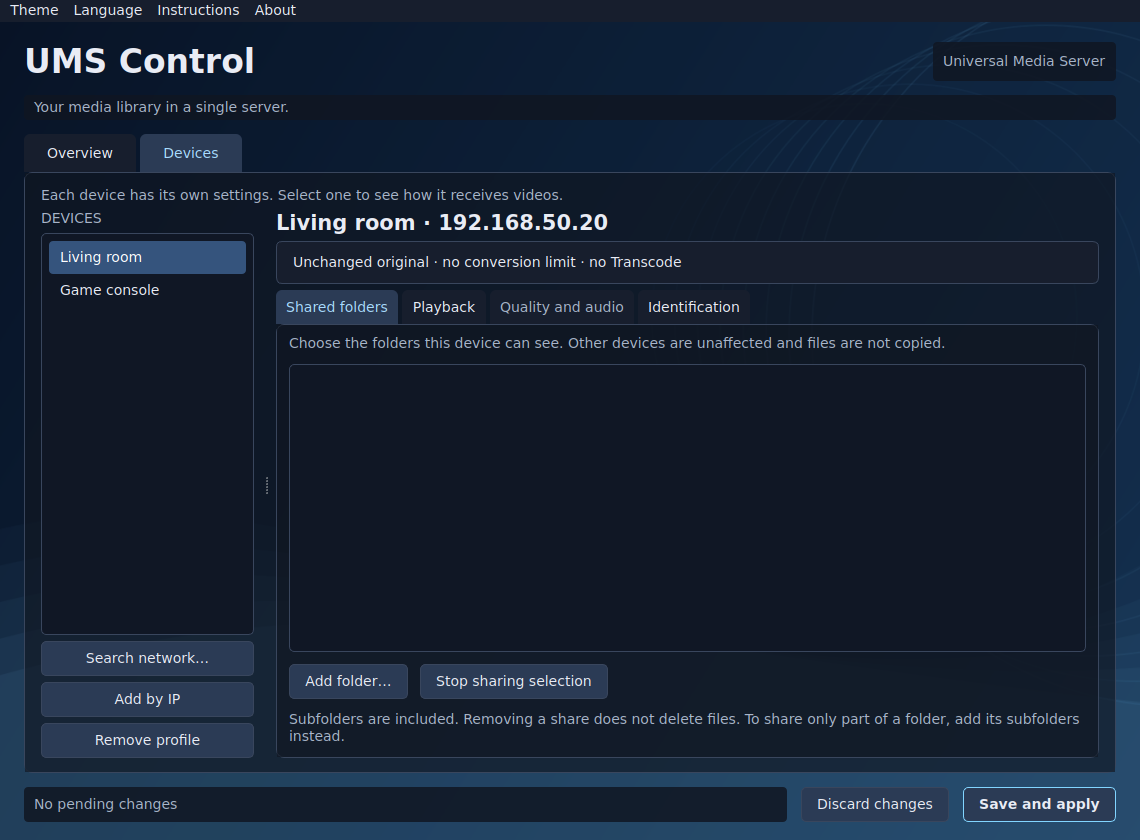
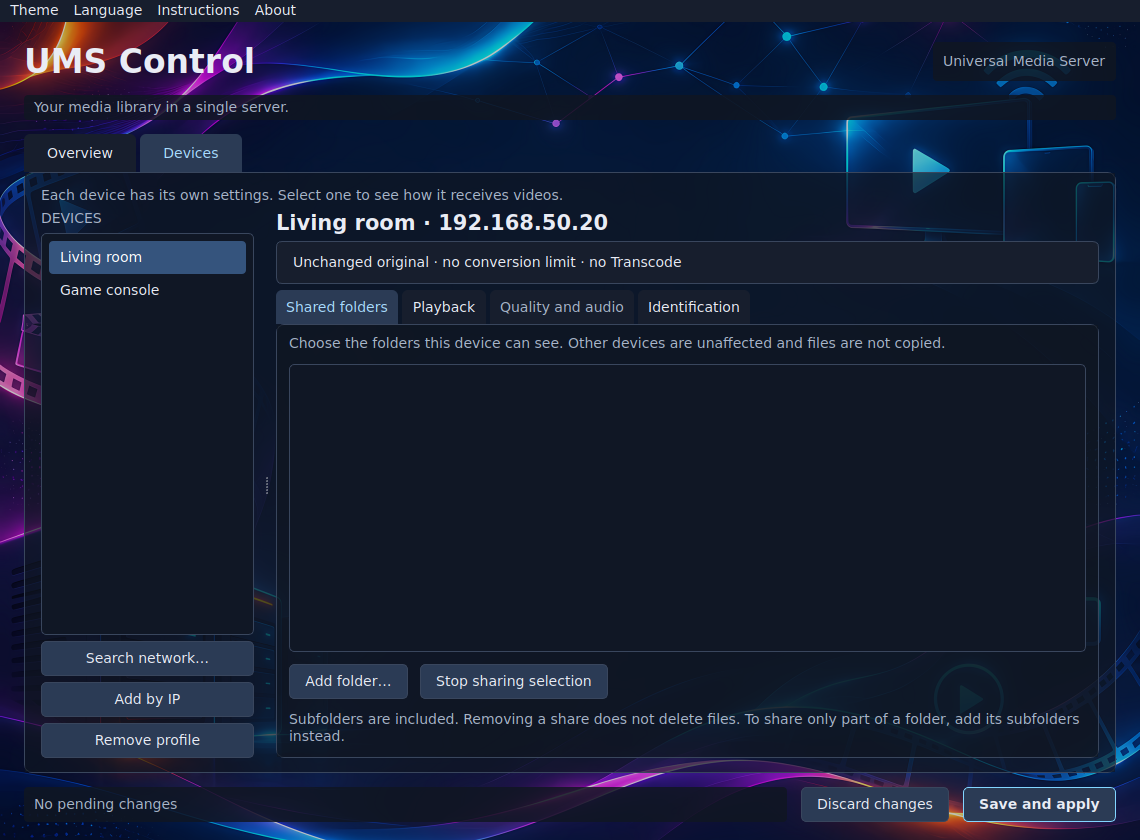
Package Linux artwork and theme gallery with separate Windows assets

diff --git a/distribution.py b/distribution.py
@@ -52,11 +52,15 @@ def screenshots(output):
     with ExitStack() as stack:
         for item in [patch.object(c,'network_interfaces',return_value=[dict(name='demo-interface',kind='ethernet',number=1,up=True)]),patch.object(g.Window,'refresh'),patch.object(g.Window,'check_updates'),patch.object(c,'load_state',side_effect=lambda:copy.deepcopy(state)),patch.object(g.appearance,'load',return_value=dict(theme='current',language='en')),patch.object(g.appearance,'save')]:stack.enter_context(item)
         w=g.Window(preferences=dict(theme='current',language='en'));w.timer.stop();w.resize(1140,840);w.update_server_buttons(dict(present=False,kind='absent',repairable=True,status='inactive'));w.status.setText(g.tr('Servidor no instalado'));w.render_activity(dict(devices=[],activity=[],status='inactive'));w.dirty=False;w.message.setText(g.tr('Sin cambios pendientes'));w.show();app.processEvents()
-        for tab,name in [(0,'summary'),(1,'devices')]:
-            w.tabs.setCurrentIndex(tab);app.processEvents()
-            if not w.grab().save(str(output/(name+'.png'))):raise RuntimeError('Screenshot failed')
+        for theme in g.appearance.THEMES:
+            w.set_theme(theme);app.processEvents()
+            for tab,name in [(0,'summary'),(1,'devices')]:
+                w.tabs.setCurrentIndex(tab);app.processEvents()
+                image=w.grab()
+                if not image.save(str(output/(theme+'-'+name+'.png'))):raise RuntimeError('Screenshot failed')
+                if theme=='current' and not image.save(str(output/(name+'.png'))):raise RuntimeError('Screenshot failed')
         w.dirty=False;w.close()
-    (output/'capture.json').write_text(json.dumps(dict(platform=sys.platform,language='en',synthetic_data=True,version='1.0.0'),indent=2), encoding='utf-8')
+    (output/'capture.json').write_text(json.dumps(dict(platform=sys.platform,language='en',synthetic_data=True,version='1.0.0',themes=list(g.appearance.THEMES)),indent=2), encoding='utf-8')
     return 0
 
 def main():

diff --git a/tools/export_public.py b/tools/export_public.py
@@ -35,11 +35,9 @@ def main():
   target.mkdir(parents=True,exist_ok=True)
   for name in spec['files']:
    destination=target/name;destination.parent.mkdir(parents=True,exist_ok=True);shutil.copy2(ROOT/name,destination)
-  from tools.render_assets import render
-  render(target/'assets')
   paths=spec['files']+['assets/'+name for name in spec['generated_assets']]
   hashes={name:hashlib.sha256((target/name).read_bytes()).hexdigest() for name in sorted(paths)}
   (target/'PUBLIC-MANIFEST.json').write_text(json.dumps(hashes,indent=2)+'\n', encoding='utf-8')
   print('Public source directory ready:',target,'files:',len(hashes))
- else:print('Public source allowlist validated:',len(spec['files']),'files; private artwork excluded')
+ else:print('Public source allowlist validated:',len(spec['files']),'files; platform artwork preserved')
 if __name__=='__main__':main()

diff --git a/packaging/build_windows.py b/packaging/build_windows.py
@@ -11,6 +11,8 @@ def assemble(payload):
         shutil.copy2(ROOT/name,internal/name)
     for name in ['assets','docs/public','server-support','patches']:
         shutil.copytree(ROOT/name,internal/name,dirs_exist_ok=True,ignore=shutil.ignore_patterns('__pycache__'))
+    # Windows retains its independent geometric icon and wallpaper set.
+    shutil.copytree(ROOT/'assets/windows',internal/'assets',dirs_exist_ok=True)
     vendor=internal/'vendor/7zip';vendor.mkdir(parents=True,exist_ok=True)
     for name in ['7z.exe','7z.dll','License.txt']:
         shutil.copy2(CACHE/'7zip-full'/name,vendor/name)

diff --git a/packaging/build_linux.py b/packaging/build_linux.py
@@ -14,6 +14,7 @@ def copy_source(target):
         f=ROOT/name
         if f.is_file():
             out=target/name;out.parent.mkdir(parents=True,exist_ok=True);shutil.copy2(f,out)
+    shutil.copy2(ROOT/'PUBLIC-MANIFEST.json',target/'PUBLIC-MANIFEST.json')
     (target/'distribution-marker.json').write_text(json.dumps(dict(version='1.0.0',format='linux',native_baseline='jammy')), encoding='utf-8')
 
 def build(args):

diff --git a/README_ES.md b/README_ES.md
@@ -26,13 +26,27 @@ Windows utiliza la misma interfaz Qt, reglas por dispositivo e integración Java
 
 ## Capturas
 
-Interfaz inglesa y dispositivos de demostración, sin datos de bibliotecas privadas. Las imágenes Linux proceden de la aplicación instalada mediante DEB en un escritorio aislado. Las imágenes Windows muestran el ejecutable empaquetado bajo Wine; no representan una certificación de escritorio Windows nativo.
+Interfaz inglesa y dispositivos de demostración, sin datos de bibliotecas privadas. Las imágenes Linux son renderizados Qt reales del contenido del DEB en un entorno Linux aislado. Las imágenes Windows muestran el ejecutable empaquetado bajo Wine; no representan una certificación de escritorio Windows nativo.
 
 ### Linux · DEB
 
 ![Linux DEB — Resumen](docs/screenshots/linux-deb-summary.png)
 
 ![Linux DEB — Dispositivos](docs/screenshots/linux-deb-devices.png)
+
+#### Temas Linux
+
+![Linux — Azul](docs/screenshots/linux-current-summary.png)
+
+![Linux — UGM](docs/screenshots/linux-ugm-summary.png)
+
+![Linux — Windows clásico](docs/screenshots/linux-classic-summary.png)
+
+![Linux — Alto contraste](docs/screenshots/linux-contrast-summary.png)
+
+![Linux — Verde/amarillo](docs/screenshots/linux-green-summary.png)
+
+![Linux — Anime](docs/screenshots/linux-anime-summary.png)
 
 ### Windows · EXE
 
@@ -46,7 +60,7 @@ Interfaz inglesa y dispositivos de demostración, sin datos de bibliotecas priva
 - Entrega Original, conversión manual y automática. Mismos controles de contenedor, audio/subtítulos, codificador, resolución y bitrate en ambas plataformas.
 - Bitrate recomendado editable al cambiar resolución: 480p 5, 720p 10, 1080p 25, 1440p 40 y 2160p 60 Mbps. Abrir o cambiar de perfil conserva los valores manuales guardados.
 - Resumen: inicio/parada/reinicio, salud/registro, instalación/reparación/actualización/retirada del servidor, autoinicio de sesión y actualización del catálogo. Actualizaciones siempre explícitas.
-- Siete idiomas, seis temas y guía de Instrucciones. Arte público original; fondos personales y diagnósticos privados excluidos.
+- Siete idiomas y seis temas: Azul, UGM, Windows clásico, Alto contraste, Verde/amarillo y Anime. Linux incluye el icono y los fondos proporcionados; Windows utiliza su propio arte geométrico. Guía de Instrucciones incluida; ajustes y diagnósticos privados excluidos.
 - Guardar y aplicar reinicia un servidor activo e interrumpe la reproducción. Un servidor detenido permanece detenido. Las preferencias visuales no aplican ajustes del servidor.
 
 Algunos dispositivos pueden no ser **compatibles al 100 %**. La compatibilidad depende del dispositivo, su firmware y los formatos multimedia, no simplemente del fabricante. No se garantiza la reproducción universal.

diff --git a/README.md b/README.md
@@ -26,13 +26,27 @@ Windows uses the same Qt interface, profile rules and Java integration as Linux.
 
 ## Screenshots
 
-English interface with demonstration devices and no private library data. Linux images are captured from the DEB-installed application in an isolated desktop. Windows images show the packaged Windows executable running under Wine, not a native Windows desktop certification.
+English interface with demonstration devices and no private library data. Linux images are real Qt renders of all six themes from the DEB payload in an isolated Linux userspace. Windows images show the packaged Windows executable running under Wine, not a native Windows desktop certification.
 
 ### Linux · DEB
 
 ![Linux DEB — Overview](docs/screenshots/linux-deb-summary.png)
 
 ![Linux DEB — Devices](docs/screenshots/linux-deb-devices.png)
+
+#### Linux themes
+
+![Linux — Blue](docs/screenshots/linux-current-summary.png)
+
+![Linux — UGM](docs/screenshots/linux-ugm-summary.png)
+
+![Linux — Classic Windows](docs/screenshots/linux-classic-summary.png)
+
+![Linux — High contrast](docs/screenshots/linux-contrast-summary.png)
+
+![Linux — Green/yellow](docs/screenshots/linux-green-summary.png)
+
+![Linux — Anime](docs/screenshots/linux-anime-summary.png)
 
 ### Windows · EXE
 
@@ -46,7 +60,7 @@ English interface with demonstration devices and no private library data. Linux 
 - Original delivery, manual conversion and automatic delivery. Container, audio/subtitles, encoder, resolution and bitrate controls are shared across platforms.
 - Resolution changes suggest an editable bitrate: 480p 5, 720p 10, 1080p 25, 1440p 40 and 2160p 60 Mbps. Saved manual values are preserved when opening/switching profiles.
 - Overview: start/stop/restart, health/logs, install/repair/update/remove server, session autostart and catalogue refresh. Updates are explicit.
-- Seven languages, six themes and a built-in Instructions guide. Public artwork is original; private development wallpapers and logs are excluded.
+- Seven languages and six themes: Blue, UGM, Classic Windows, High contrast, Green/yellow and Anime. Linux includes the supplied icon and wallpapers; Windows uses its own geometric artwork. A built-in Instructions guide is included; private logs and settings are excluded.
 - Saving and applying playback settings restarts an active server and interrupts playback. A stopped server stays stopped. Appearance preferences never apply server settings.
 
 Some devices may not be **100% compatible**. Compatibility depends on the device, firmware and media formats, not simply on its manufacturer. No universal playback guarantee is made.

diff --git a/assets/ORIGIN.md b/assets/ORIGIN.md
@@ -1,11 +1,11 @@
-# Public artwork
+# Platform artwork
 
-Copyright (C) 2026 N3ruk. GPL-3.0-or-later.
+Linux DEB and ZIP use the icon and wallpapers supplied and selected by N3ruk. The PNGs are preserved byte-for-byte from the supplied artwork. This inventory records provenance, not a claim that third-party imagery was created by the frontend author or is relicensed by the frontend GPL.
 
-All five PNG files are original geometric renders from `tools/render_assets.py`. No third-party artwork, characters, logos, photos, fonts or private wallpapers are incorporated. The script is the preferred editable source. Theme identifiers are compatibility identifiers, not third-party endorsements.
+Windows uses the original geometric artwork in `assets/windows/`, generated by `tools/render_assets.py`; its provenance and hashes are recorded there. Classic Windows and High contrast are palette-only themes on both platforms.
 
[10 lines of base64/hex data omitted]

diff --git a/THIRD_PARTY_NOTICES.md b/THIRD_PARTY_NOTICES.md
@@ -4,7 +4,7 @@ UMS Control 1.0.0 candidate — Copyright (C) 2026 N3ruk — frontend GPL-3.0-or
 
 ## Files actually redistributed in the public source candidate
 
-- Original frontend Python/UI catalogs and original public geometric assets: GPL-3.0-or-later. Editable artwork source: `tools/render_assets.py`; inventory and SHA256: `assets/ORIGIN.md`. No private development wallpapers, third-party character artwork or supplied logos are included in public exports.
+- Original frontend Python/UI catalogs: GPL-3.0-or-later. Windows geometric artwork: GPL-3.0-or-later, editable source `tools/render_assets.py`, inventory `assets/windows/ORIGIN.md`. Linux icon and wallpapers are supplied artwork selected by N3ruk, preserved byte-for-byte; provenance and SHA256 are in `assets/ORIGIN.md`. The frontend license does not claim authorship of or relicense any third-party imagery.
 - Modified Universal Media Server Java files under `patches/net` and compiled `server-support/update.jar` / `update-windows.jar`: retain their upstream GPL-2.0 notices and authorship; see `patches/LICENSE.UMS.txt`. Complete modified files, exact upstream source reference/archive/hash, verified official build input and deterministic build recipe are provided. See `server-support/upstream.json` and `docs/public/BUILD.md`. This notice does not relicense the upstream Java code as frontend code.
 - `baul.svg`: original geometric development icon, GPL-3.0-or-later; retained for source-install compatibility.
 

diff --git a/docs/public/VERIFICATION.md b/docs/public/VERIFICATION.md
@@ -13,7 +13,7 @@ The [Linux v1.0.0 release](https://github.com/N3ruk/UMS-Control/releases/tag/v1.
 | ZIP package lifecycle | Install, same-version replacement and removal passed in isolated Ubuntu 22.04 without system Python/Qt; initial French selection and preservation verified |
 | Windows EXE under Wine | Actual NSIS install, normal executable startup, self-test, same-version replacement and uninstall passed; saved Japanese preference preserved |
 | Java integration | Separate official Linux/Windows input JARs verified; matching Windows bootstrap rebuilt identically with JDK 17 |
-| English screenshots | Captured from the DEB-installed Linux app and the EXE-installed Windows app under Wine; synthetic device profiles, no private media |
+| English screenshots | Linux: real Qt renders of all six themes from the DEB payload in an isolated userspace. Windows: EXE-installed app under Wine; synthetic device profiles, no private media |
 
 ## Acceptance still required
 

diff --git a/docs/public/es/VERIFICACION.md b/docs/public/es/VERIFICACION.md
@@ -13,7 +13,7 @@ La [release Linux v1.0.0](https://github.com/N3ruk/UMS-Control/releases/tag/v1.0
 | Ciclo del ZIP | Instalación, sustitución y retirada en Ubuntu 22.04 aislado sin Python/Qt del sistema; selección y conservación de francés |
 | EXE bajo Wine | Instalación NSIS real, apertura normal, autoprueba, sustitución y desinstalación; preferencia japonesa conservada |
 | Integración Java | JAR oficiales Linux y Windows separados verificados; reconstrucción Windows idéntica con JDK 17 |
-| Capturas inglesas | Aplicación Linux instalada mediante DEB y Windows mediante EXE bajo Wine; perfiles sintéticos, sin medios privados |
+| Capturas inglesas | Linux: renderizados Qt reales de los seis temas del contenido del DEB en un entorno aislado. Windows: aplicación instalada mediante EXE bajo Wine; perfiles sintéticos, sin medios privados |
 
 ## Aceptación pendiente
 

diff --git a/assets/windows/ORIGIN.md b/assets/windows/ORIGIN.md
@@ -1,0 +1,11 @@
+# Public artwork
+
+Copyright (C) 2026 N3ruk. GPL-3.0-or-later.
+
+All five PNG files are original geometric renders from `tools/render_assets.py`. No third-party artwork, characters, logos, photos, fonts or private wallpapers are incorporated. The script is the preferred editable source. Theme identifiers are compatibility identifiers, not third-party endorsements.
+
[5 lines of base64/hex data omitted]

diff --git a/docs/public/BUILD.md b/docs/public/BUILD.md
@@ -31,6 +31,8 @@ The build root needs `libcurl3-gnutls` and the usual X11/XCB/Wayland/fontconfig/
 
 Outputs in `dist/`: `ums-control_1.0.0-1_amd64.deb` and `ums-control-1.0.0-linux-x86_64.zip`. Debian configuration is an English debconf selection. ZIP installation uses the same seven language codes and an English terminal prompt; `./install.sh --language en` is the explicit unattended alternative. The selected default never overwrites saved preferences.
 
+Linux artwork is copied unchanged from `assets/`. The Windows builder overlays `assets/windows/` and does not use the Linux wallpapers. Source export copies both sets verbatim; `tools/render_assets.py` is only for explicitly regenerating Windows geometric artwork, never Linux assets.
+
 ## Windows EXE
 
 ```sh
